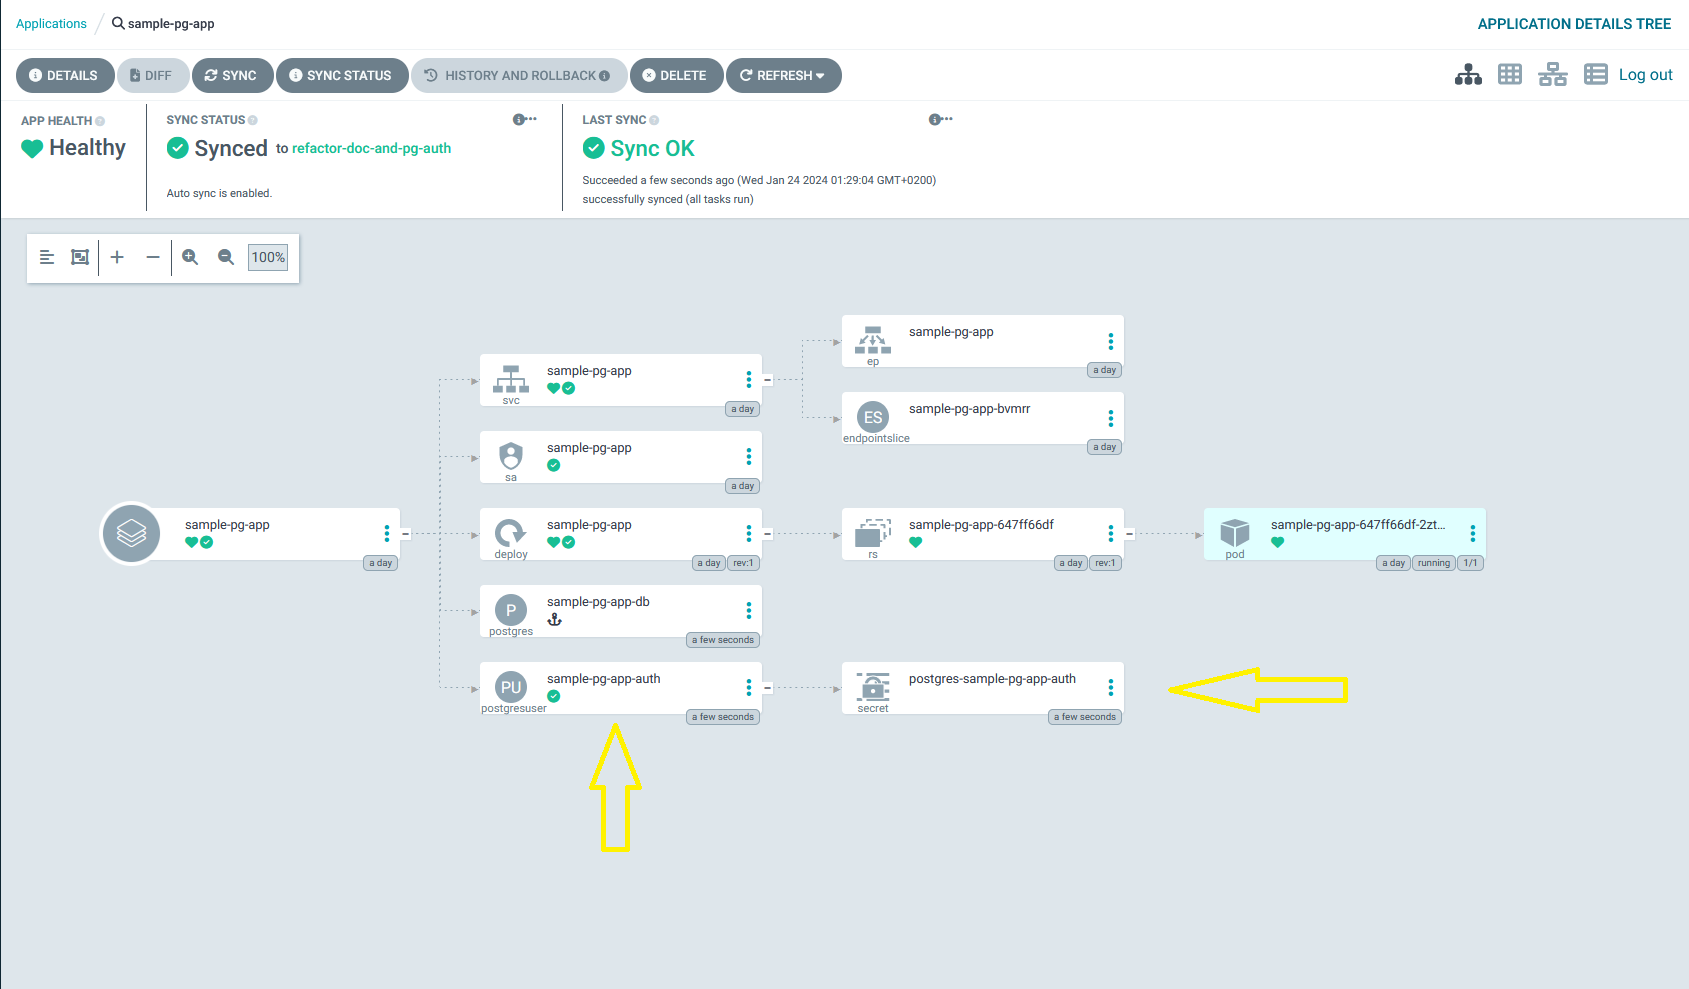
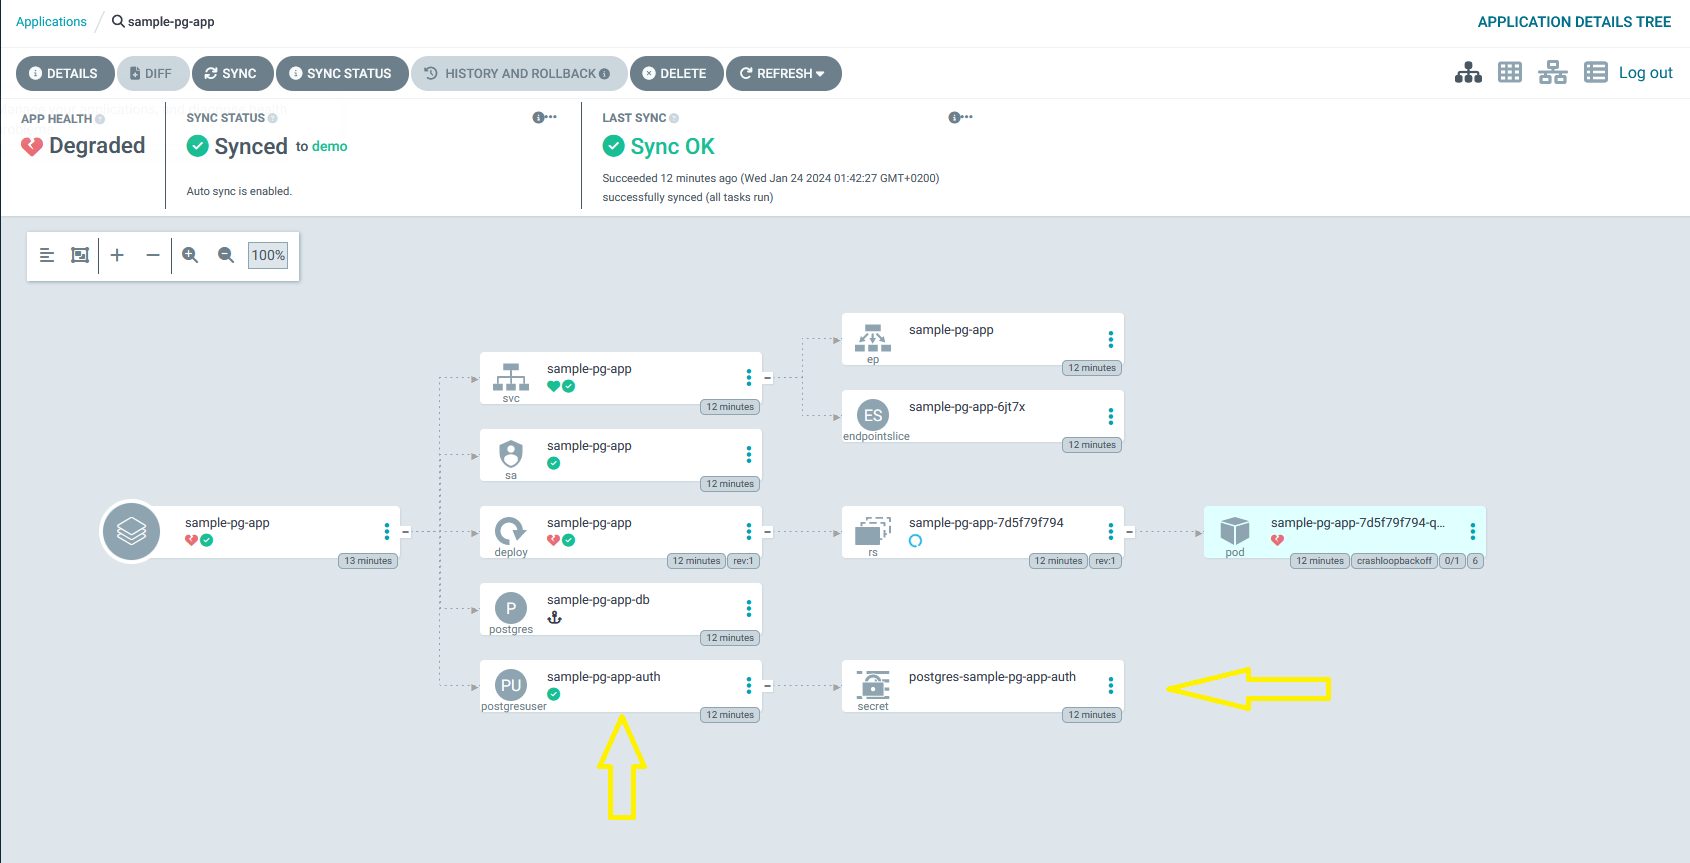
wip

diff --git a/docs/03_create_postgres_credentials.md b/docs/03_create_postgres_credentials.md
@@ -2,6 +2,8 @@
 
 In this slide we are going to provision a user and password for the database which will be stored in a Kubernetes secret, and configure our sample-pg-app to retrieve the authentication details from that secret.
 
+## Create PostgreSQL user
+
 We can declare a new user that will be associated to the database by creating the following `.yaml` in [apps/services/sample-pg-app/hooks](apps/services/sample-pg-app/hooks):  
 > [!WARNING]  
 > Again, make sure the file name you choose ends with `.yaml`, for example, `database-user.yaml`.
@@ -23,9 +25,19 @@ Once you've pushed your changes, you should see a new _postgresuser_ and a Kuber
 
 ![postgres-user](./images/postgres-user.png "postgres-user")
 
-Now let's reference the secret in the sample-pg-app.  
+> [!NOTE]  
+> You can decode the Kubernetes secret by executing
 
-Add the following `values.yaml` file to [apps/services/sample-pg-app](apps/services/sample-pg-app)
+```sh
+kubectl -n services get secret postgres-sample-pg-app-auth -o go-template='{{range $k,$v := .data}}{{printf "%s: " $k}}{{$v | base64decode}}{{"\n"}}{{end}}'
+```  
+
+## Assign credentials to application
+
+Although we've created a new Postgres user and a Kubernetes secret, the health status is still degraded.  
+This is because we still need to reference the secret in the sample-pg-app.  
+
+We'll do that by adding the following `values.yaml` file to [apps/services/sample-pg-app](apps/services/sample-pg-app)
 
 ```yaml
 postgres:
@@ -33,6 +45,51 @@ postgres:
     secretName: "postgres-sample-pg-app-auth"
 ```
 
-
 > [!NOTE]  
 > You can see the default Helm values of sample-pg-app in [sample-pg-app/chart/sample-pg-app/values.yaml](sample-pg-app/chart/sample-pg-app/values.yaml)
+
+Once your changes have been synced, you should see the sample-pg-app in a healthy state!
+
+![healthy-sample-pg-app](./images/healthy-sample-pg-app.png "healthy-sample-pg-app")
+
+## Bonus
+
+If you want to be extra sure the sample-pg-app is able to communicate with the database, we can set up port-forwarding to the sample-pg-app and send API requests.  
+
+### Port Forwarding
+
+To set up port forwarding to the sample-pg-app service, execute
+
+```sh
+kubectl -n services port-forward svc/sample-pg-app 8081:80
+```
+
+This will forward the traffic from your localhost at port 8081 to the sample-pg-app Kubernetes service at port 80.  
+Now store some data in the database by sending an API request to sample-pg-app
+
+```sh
+curl --location --request POST 'localhost:8081/data' \
+    --header 'Content-Type: application/json' \
+    --data-raw '{"data":"k8s-operators-workshop"}'
+```
+
+> [!NOTE]  
+> Remember, when sending `curl` request to `localhost:8081` the traffic will be forwarded to the sample-pg-app service
+
+To make sure the data is actually stored in the database, retrieve the data with another API request
+
+```sh
+curl --location --request GET 'localhost:8081/data'
+```
+
+If the data was stored successfully, you should see the following response
+
+```sh
+[{"data":"k8s-operators-workshop"}]
+```
+
+---
+
+## Learn more
+
+You can read more about accessing Kubernetes resources using port-forwarding in the [Kubernetes documentation](https://kubernetes.io/docs/tasks/access-application-cluster/port-forward-access-application-cluster/)
